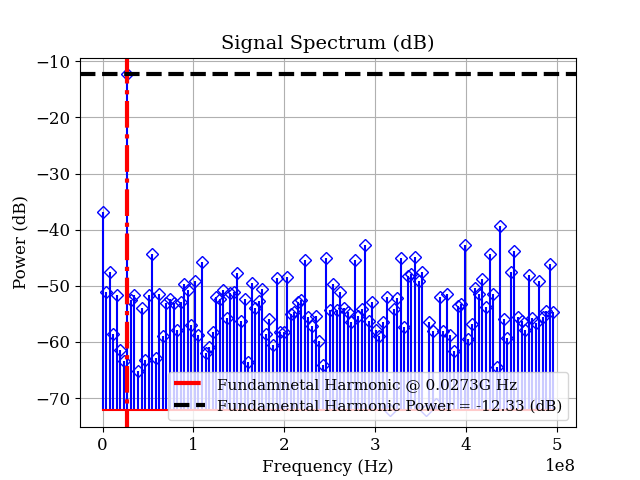
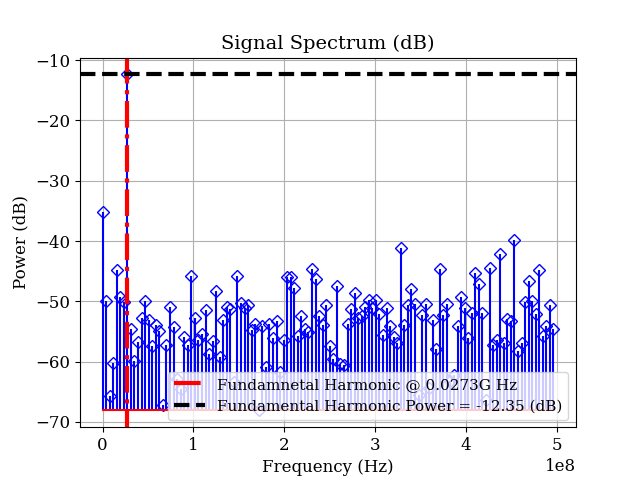
Minor changes in the testing script.

diff --git a/tests/test_dycifer.py b/tests/test_dycifer.py
@@ -191,7 +191,7 @@ class TestDycifer(unittest.TestCase):
         with self.assertRaises(SystemExit):
             cli(args)
 
-    def test_caosDynamicEval_plotPrettyFFT_multiple(self):
+    def test_caosDynamicEval(self):
         # create the test data
         fs = 10e9  # sampling frequency
         ts = 1.0 / fs  # sampling time stamp / period
@@ -236,7 +236,7 @@ class TestDycifer(unittest.TestCase):
             signals,
             "vout",
             input_signal_name="vin",
-            signal_span_factor=0.002,
+            signal_span_factor=0.00,
             noise_power=0.0,
             downsampling=5,
         )  # 0.2 % of power spectral density leakage
@@ -265,12 +265,10 @@ class TestDycifer(unittest.TestCase):
         self.assertAlmostEqual(hd2, -20.000000000000103, places=3)
         self.assertAlmostEqual(hd3, -40.00000000000053, places=3)
 
-    def test_daosDynamicEval_plotPrettyFFT_multiple(self):
+    def test_daosDynamicEval(self):
 
         file_path = "./resources/data/fft_points_c2c_256_bin7.csv"
         signals = readSignals(file_path)
-        plt.plot(signals.index, signals["bit0_sampled (V)"])
-        plt.show()
         (
             out_spectrum,
             signal_power,

diff --git a/resources/tables_jonny/adc_spectrum.tex b/resources/tables_jonny/adc_spectrum.tex
@@ -2,6 +2,6 @@
 \toprule
 {} &  Signal Power (dB) &  DC Power (dB) &  SFDR (dB) &   THD (dB) &   SNR (dB) &  SNDR (dB) &      ENOB \\
 \midrule
-Dynamic Evaluation Indicators &          -12.33149 &     -36.861304 &  26.997693 & -27.604078 &  17.650479 &  17.232313 &  2.570152 \\
+Dynamic Evaluation Indicators &         -12.354016 &     -35.252868 &  27.310653 & -31.514921 &  17.215662 &  17.057205 &  2.541064 \\
 \bottomrule
 \end{tabular}

diff --git a/resources/tables_jonny/adc_spectrum.md b/resources/tables_jonny/adc_spectrum.md
@@ -1,3 +1,3 @@
 |                               |   Signal Power (dB) |   DC Power (dB) |   SFDR (dB) |   THD (dB) |   SNR (dB) |   SNDR (dB) |    ENOB |
 |:------------------------------|--------------------:|----------------:|------------:|-----------:|-----------:|------------:|--------:|
-| Dynamic Evaluation Indicators |            -12.3315 |        -36.8613 |     26.9977 |   -27.6041 |    17.6505 |     17.2323 | 2.57015 |
+| Dynamic Evaluation Indicators |             -12.354 |        -35.2529 |     27.3107 |   -31.5149 |    17.2157 |     17.0572 | 2.54106 |
